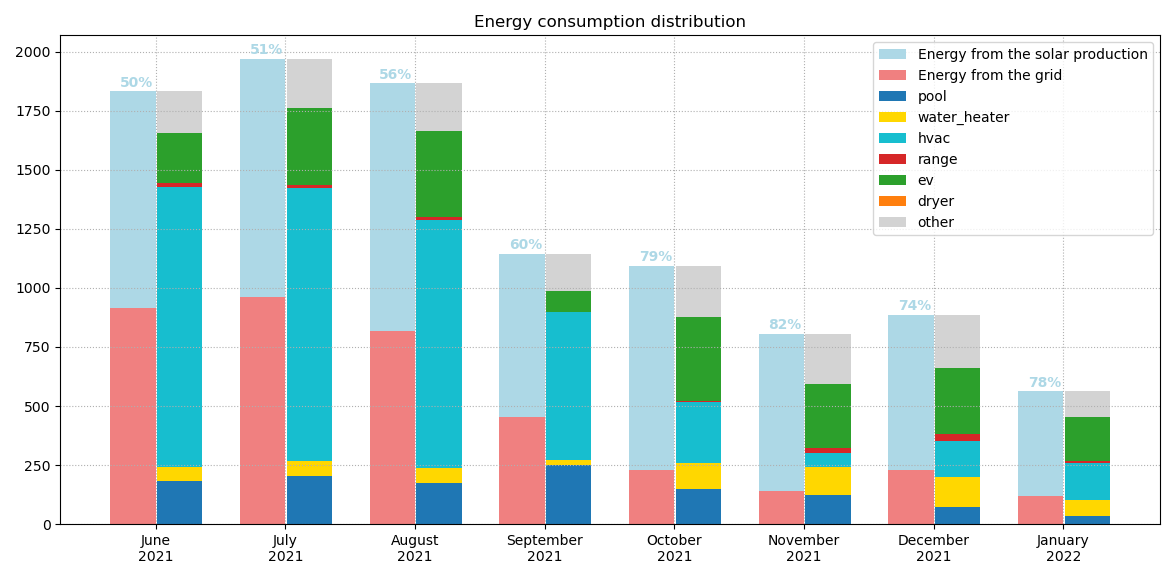
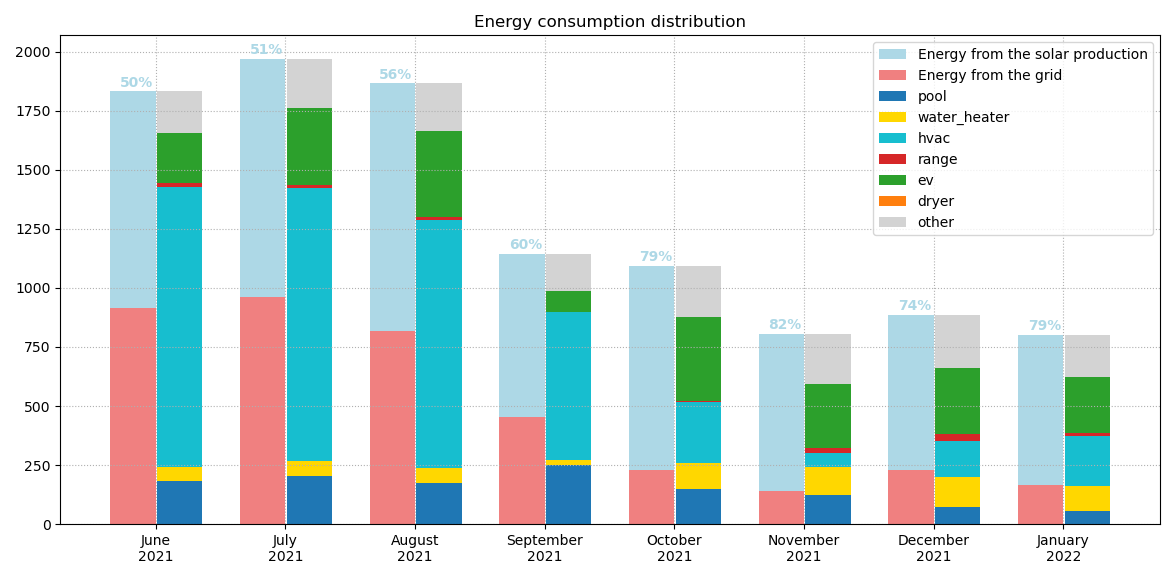
doc: fix and update

Changed region(s): [[0.8579, 0.5596, 0.9498, 0.8083], [0.8579, 0.8394, 0.9498, 0.9016]]

diff --git a/README.md b/README.md
@@ -1,6 +1,6 @@
-**Solar Power usage optimization in a residential home**
+\*Solar Power usage optimization in a residential home
 
-This project aims to optimize the use of solar produced energy in a residential home. In the implementation described below it optimizes three appliances: an Electric Vehicle charger, a water heater and an HVAC system. The project has focused so far on these three appliances because they add up to approximately `72.5%` of a my home energy usage and they are a form of energy storage.
+This project aims to optimize the use of solar produced energy in a residential home. In the implementation described below it optimizes three appliances: an Electric Vehicle charger, a water heater and an HVAC system. The project has focused so far on these three appliances because they add up to approximately `72.2%` of a my home energy usage and they are a form of energy storage.
 
 My home is located in Phoenix, Arizona and my solar system is not equipped with battery system. Even though at this location 296 days per year are either sunny or partly sunny, photovoltaic production is still highly unpredictable.
 
@@ -16,7 +16,7 @@ The illustration below shows the distribution of the energy consumption of my ho
 
 ![img](doc/images/energy_consumption_distribution.png)
 
-I started the project during summer and made considerable progress since then but we also have to factor in that during summer the HVAC has to run at night and is necessarily going to have a significant impact on this metric. Nevertheless, it allows to see that between `June 2021` and `January 2022`, on average &asymp; `62.0%` of the electricity used by my home came from the solar panels.
+I started the project during summer and made considerable progress since then but we also have to factor in that during summer the HVAC has to run at night and is necessarily going to have a significant impact on this metric. Nevertheless, it allows to see that between `June 2021` and `January 2022`, `62.4%` of the electricity used by my home came from the solar panels.
 
 The implementation relies on various modules providing services such as weather forecast, instant power consumption records, solar power prediction, home thermal model, appliances controls and a scheduler. **Note**: This project implementation is not generic enough to be plugged-in as-is to control any system. Some modules rely on specific hardware devices or specific software interfaces. For instance, the `car_charger` task module relies on the Pulsar II Wallbox&reg; charger   and have dependencies on their cloud service. Nevertheless, I believe that most of this project can be re-use in various forms and this is why I made it available publicly.
 
@@ -24,7 +24,7 @@ When I started this project I discarded existent Home Automation "framework" suc
 
 ![img](./doc/images/scheduler_at_work.png)
 
-The software architecture is based on well separated python modules each running in their dedicate process. Each module implements known interfaces such as or . Alternatively or in addition, a module can expose its a original service interface. The inter-processes communication is guaranteed by the [pyro5](https://pypi.org/project/Pyro5/) remote objects communication library. Each service, sensor or task is registered to a pyro5 nameserver under the `home-manager` namespace.  The services are under the `home-manager.service` sub-namespace, the sensors under the `home-manager.sensor` sub-namespace and the tasks are under the `home-manager.task` sub-namespace. For instance, the task responsible of the HVAC system is implemented by the [hvac.py](./src/hvac.py) program and registered as `home-manager.task.hvac` to the nameserver.
+The software architecture is based on well separated python modules each running in their dedicate process. Each module implements known interfaces such as [Sensor](doc/sensor.md#sensor-objects) or [Task](doc/scheduler.md#task-objects). Alternatively or in addition, a module can expose its a original service interface. The inter-processes communication is guaranteed by the [pyro5](https://pypi.org/project/Pyro5/) remote objects communication library. Each service, sensor or task is registered to a pyro5 nameserver under the `home-manager` namespace.  The services are under the `home-manager.service` sub-namespace, the sensors under the `home-manager.sensor` sub-namespace and the tasks are under the `home-manager.task` sub-namespace. For instance, the task responsible of the HVAC system is implemented by the [hvac.py](./src/hvac.py) program and registered as `home-manager.task.hvac` to the nameserver.
 
 The diagram below represents the principal communications between the main modules.
 
@@ -40,7 +40,7 @@ Now let's have go a short presentation or the modules:
     -   The service part of this module provides properties and functions such as:
         -   the [max\_available\_power](./doc/power_simulator.md#max_available_power) property which is the maximum instantaneous power in kW the solar panels are expected to deliver from now to the end of daytime
         -   the [next\_power\_window(power)](./doc/power_simulator.md#next_power_window) function which returns the next time frame when `power` kW would be available on a perfectly sunny day. This information is useful to tasks which need to know until when they can expect to get enough power to run.
-3.  The [weather](./doc/weather.md) (`home_manager.sensor.weather` and `home_manager.service.weather`) module provides instantaneous weather information such as temperature or wind speed as a object. It also provides weather forecast service with methods to get data such as the temperature at the certain point in time. The forecast service is important to multiple modules. For instance, a solar panel production performance depends on multiple factors and in particular the temperature thus the [power\_simulator](./doc/power_simulator.md) uses the weather forecast service to compute an accurate PV panels productions estimation.
+3.  The [weather](./doc/weather.md) (`home_manager.sensor.weather` and `home_manager.service.weather`) module provides instantaneous weather information such as temperature or wind speed as a [Sensor](doc/sensor.md#sensor-objects) object. It also provides weather forecast service with methods to get data such as the temperature at the certain point in time. The forecast service is important to multiple modules. For instance, a solar panel production performance depends on multiple factors and in particular the temperature thus the [power\_simulator](./doc/power_simulator.md) uses the weather forecast service to compute an accurate PV panels productions estimation.
 4.  The [car\_sensor](./doc/car_sensor.md) (`home_manager.sensor.car`) module provides information such as the car current state of charge and mileage.
 
 The central piece of the system is the [scheduler](./doc/scheduler.md). The [scheduler](./doc/scheduler.md) is responsible of optimally schedule registered tasks depending on their priority level, their power needs, some task specific running criteria and of course, power availability. The scheduler module evaluates the situation and makes new decision every minutes. It computes power consumption statistics with a sliding window of power records and uses this data to determine the ratio of the energy a particular appliance has been consuming compared to what the photovoltaic system has been producing. This ratio represents how much of the energy used by a particular appliance has been covered by the photovoltaic production. This ratio is provided to each tasks which are responsible to let the scheduler know if this ratio would be good enough to start the task or keep it running if it is already started.
